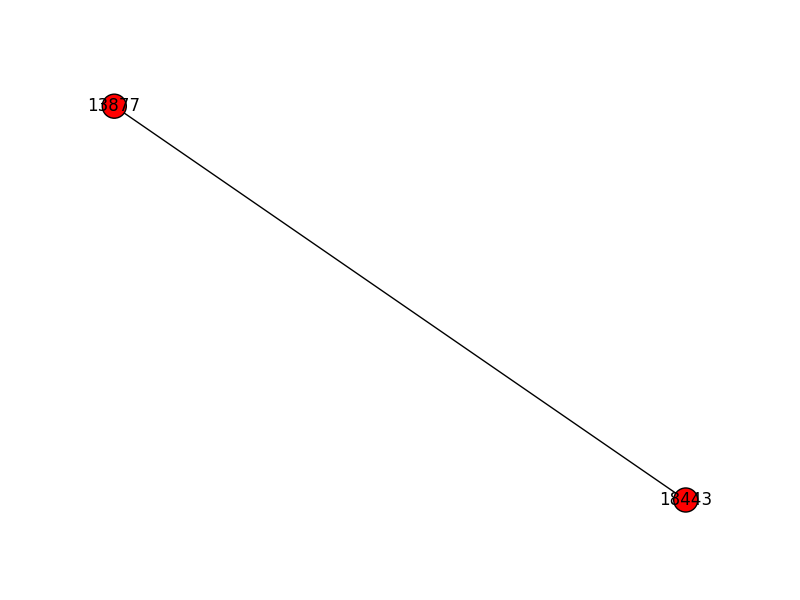
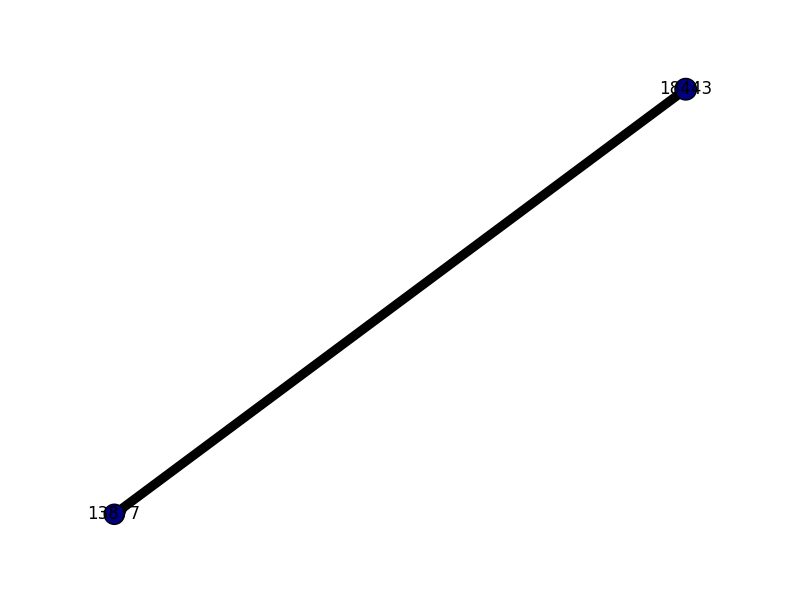
BiblioPy 4# polish the node and edge property of SubGraph networkx plot

diff --git a/scripts/CC.py b/scripts/CC.py
@@ -204,13 +204,31 @@ def CC_network(in_dir, out_dir, verbose):
 		# plot SubGraph for each community
 		if verbose: print "....plot SubGraph for community %d" % (com)
 		subG = nx.subgraph(G, list_nodes[com])
-		nx.draw_spring(subG)
-		dst = os.path.join(out_dir, 'SubGraph/Plot/SubGraph-%d.png' % (com))
-		plt.savefig(dst)
-		plt.close('all')
 		# partition
 		if verbose: print "....sub clustering for community %d" % (com)
 		part = community.best_partition(subG) 
+		# plot SubGraph relationships network
+		node_color = [part[v] for v in subG]
+		node_size = [nA[v]*30 for v in subG]
+		labels = dict()
+		for refid in subG:
+			foo = ref_index[refid]['firstAU'] + ', ' + ref_index[refid]['journal'] + ', ' + str(ref_index[refid]['year'])
+			labels[refid] = foo
+		width = []
+		for e in subG.edges():
+			i = e[0]
+			j = e[1]
+			if i>j:
+				tmp = i
+				i = j
+				j = tmp
+			w_ij = (1.0 * CC_table[i][j]) / math.sqrt(nA[i] * nA[j]) * 10
+			width.append(w_ij)
+		#nx.draw_spring(subG, node_color=node_color, node_size=node_size, labels=labels, font_size=8)
+		nx.draw_spring(subG, node_color=node_color, node_size=node_size, width=width)
+		dst = os.path.join(out_dir, 'SubGraph/Plot/SubGraph-%d.png' % (com))
+		plt.savefig(dst)
+		plt.close('all')
 		# basic descriptive statistics
 		comm_size = len(subG.nodes())
 		nb_comm = len(set(part.values()))
@@ -244,6 +262,7 @@ def CC_network(in_dir, out_dir, verbose):
 							f_gephi.write("\n%d,%d,%f,%d" % (i, j, w_ij, CC_table[i][j])) 
 		# end
 		f_gephi.close()
+
 		
 	#.. comm_size
 	comm_size = dict(); 

diff --git a/README.md b/README.md
@@ -14,5 +14,7 @@ This python scripts is based on [Sebastian Grauwin's BiblioTools](http://www.seb
 - Research Topic's Life-cycle plot via [Kleinberg's burst detection algorithm](http://www.cs.cornell.edu/home/kleinber/bhs.pdf)
 - Timeline visualization via Processing
 
+#Tutorial
+
 > Liu Weizhi copyright (2014)
 
